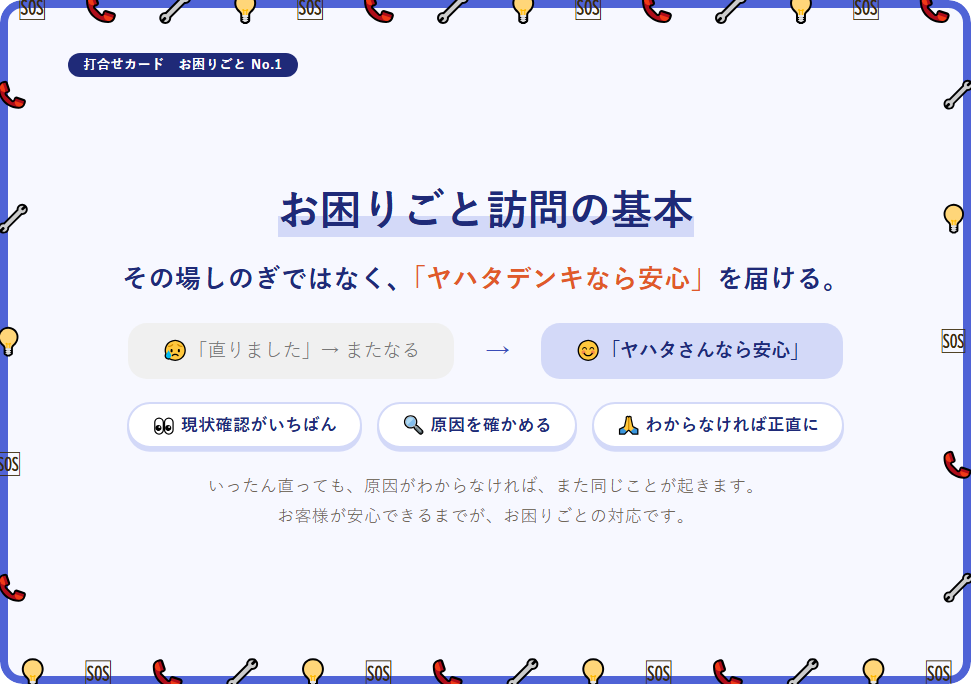
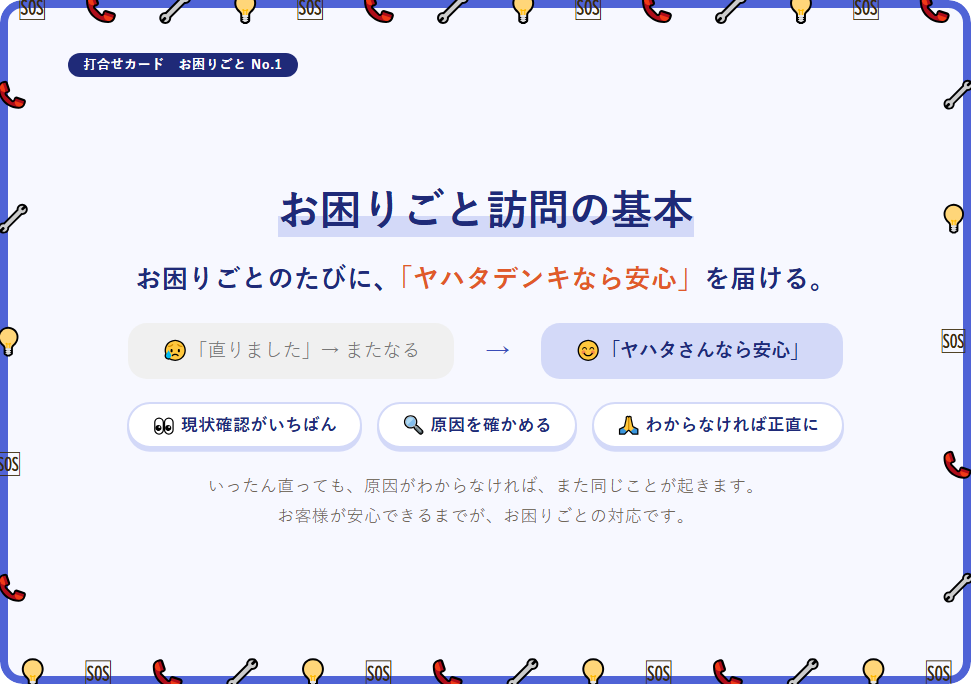
お困りごと訪問の基本：「その場しのぎ」の言い方を変更
Claude-Session: https://claude.ai/code/session_01SZNrdcyrN7aKEt1o21LvYk

Changed region(s): [[0.1235, 0.3679, 0.8642, 0.4292]]

diff --git a/card-trouble-1.html b/card-trouble-1.html
@@ -6,7 +6,7 @@
 <title>打合せカード1 お困りごと訪問の基本｜ヤハタ電機商会</title>
 <meta property="og:type" content="website">
 <meta property="og:title" content="お困りごとカード　お困りごと訪問の基本">
-<meta property="og:description" content="その場しのぎではなく、「ヤハタデンキなら安心」を届ける。">
+<meta property="og:description" content="お困りごとのたびに、「ヤハタデンキなら安心」を届ける。">
 <meta property="og:image" content="https://yahatadennki.github.io/report/img/card-trouble-1.png">
 <meta property="og:url" content="https://yahatadennki.github.io/report/card-trouble-1.html">
 <meta name="twitter:card" content="summary_large_image">
@@ -101,7 +101,7 @@
   <div class="top"><span class="no">打合せカード　お困りごと No.1</span><span></span></div>
   <div class="front">
     <h1><em>お困りごと訪問の基本</em></h1>
-    <p class="msg">その場しのぎではなく、<b>「ヤハタデンキなら安心」</b>を届ける。</p>
+    <p class="msg">お困りごとのたびに、<b>「ヤハタデンキなら安心」</b>を届ける。</p>
     <div class="vs"><div class="ng">😥「直りました」→ またなる</div><div class="ar">→</div><div class="ok">😊「ヤハタさんなら安心」</div></div>
     <div class="chips"><span>👀 現状確認がいちばん</span><span>🔍 原因を確かめる</span><span>🙏 わからなければ正直に</span></div>
     <p class="one">いったん直っても、原因がわからなければ、また同じことが起きます。<br>お客様が安心できるまでが、お困りごとの対応です。</p>

diff --git a/tools/cards-data.js b/tools/cards-data.js
@@ -780,7 +780,7 @@ module.exports = [
         vals:['① 搬入経路の確認（通路・ドア・階段）','② 養生（床と角、設置場所にマット）','③ 古いものを先に運び出す','④ 搬入・設置（倒してもうしろに当たらない）','⑤ 付属品の確認（すき間まで見る）','⑥ 一緒に座って動かす → 片付け'] }
 },
 { no:1, who:'trouble', title:'お困りごと訪問の基本',
-  why:{ msg:'その場しのぎではなく、<b>「ヤハタデンキなら安心」</b>を届ける。',
+  why:{ msg:'お困りごとのたびに、<b>「ヤハタデンキなら安心」</b>を届ける。',
         ng:'😥「直りました」→ またなる', ok:'😊「ヤハタさんなら安心」',
         chips:['👀 現状確認がいちばん','🔍 原因を確かめる','🙏 わからなければ正直に'],
         one:'いったん直っても、原因がわからなければ、また同じことが起きます。<br>お客様が安心できるまでが、お困りごとの対応です。' },
